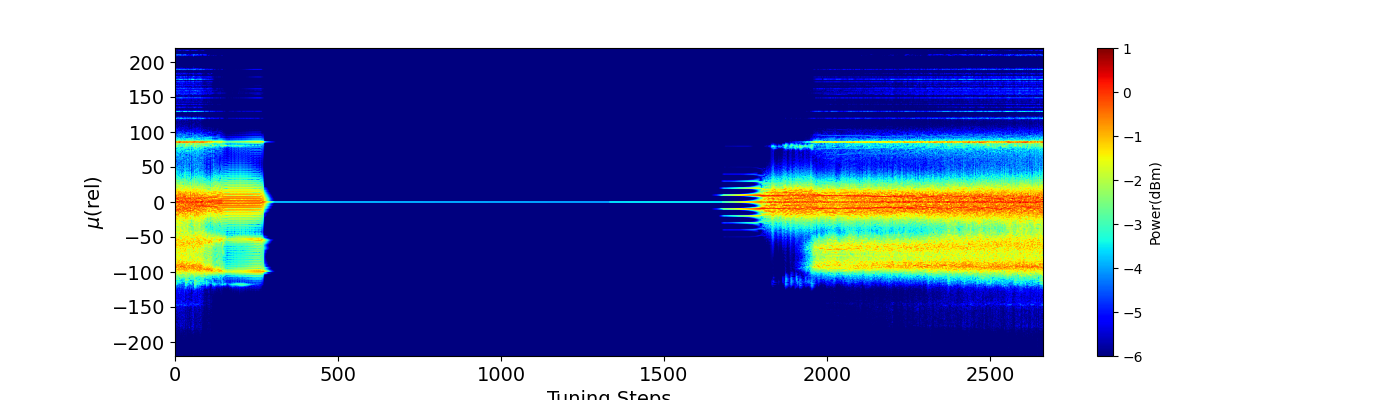
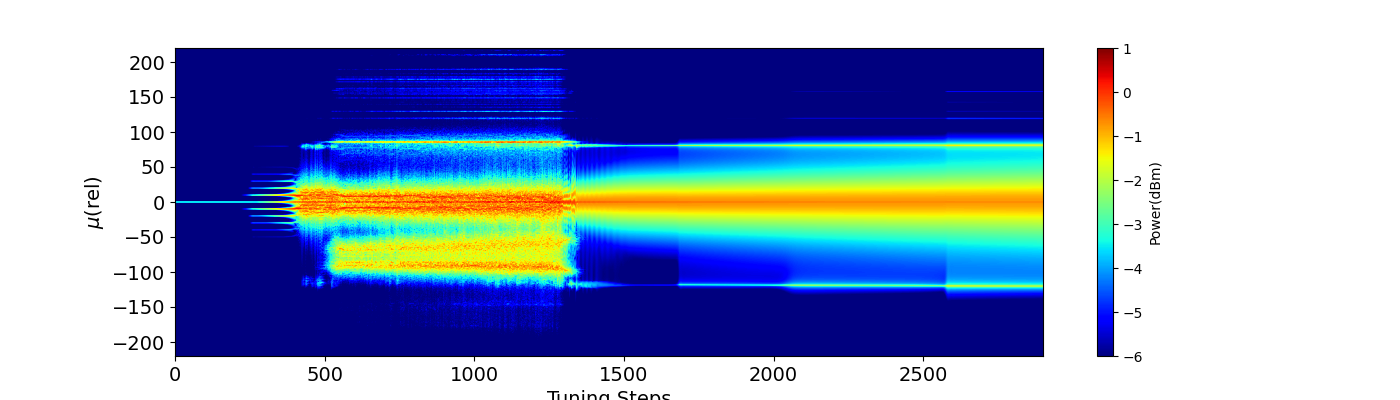
reward tuning

diff --git a/rl_mrr_all_ddqn.py b/rl_mrr_all_ddqn.py
@@ -208,6 +208,7 @@ class RL_MRR_Env():
         self.t_sim = torch.linspace(-t_ramp[0]/2 + del_omega_perc[0]*t_ramp[0], t_ramp[0]/2 + del_omega_perc[0]*t_ramp[0], Nt, device=DEVICE, dtype=torch.float64)
 
         self.pcav_ref = loadmat('ref_check.mat')['Pcomb'].T
+        self.primary_sidebands = loadmat('primary_sidebands.mat')['spec'][0]
         # self.pcav_ref = loadmat('Pcomb_rl_allv2.mat')['Pcomb'].T
 
     
@@ -354,7 +355,7 @@ class RL_MRR_Env():
             self.init_steps_ = int(1.5e5)
         # for idx in tqdm(range(int(1.5e5)), ncols=120):
         for _ in range(self.init_steps_):
-            mul_factor = np.random.choice([1, -1, 0], p=[1/3, 1/3, 1/3])
+            mul_factor = np.random.choice([1, -1, 0], p=[0.9,0.05,0.05])
             del_omega = self.current_del_omega + mul_factor*(1/self.max_steps)*(self.del_omega_end - self.del_omega_init)
 
             Fdrive_val = self.Fdrive(del_omega, self.t_sim[self.step_cntr], self.Ain, self.ind_pmp)
@@ -424,26 +425,38 @@ class RL_MRR_Env():
         desired_spectrum_dBm = 10*torch.log10(torch.abs(desired_spectrum)**2)+30
         desired_spectrum_dBm = torch.clamp(desired_spectrum_dBm, min=-60, max=10)
 
-        if torch.allclose(Ecav_dBm, desired_spectrum_dBm, atol=1):
-            achieved = True
-        else:
-            achieved = False
+        
         
 
         # Calculate the reward as the l2 error norm between the desired spectrum and the current spectrum
         # spectral_mse = -(torch.linalg.norm(Ecav-desired_spectrum, ord=2)/torch.linalg.norm(desired_spectrum, ord=2))
         # # rescale the spectral_mse to be between -1 and 0
         
-        pcav_mse = -(1000*(curr_pcav - self.pcav_ref[self.step_cntr-1])**2)
+        # pcav_mse = -(500*(curr_pcav - self.pcav_ref[self.step_cntr-1])**2)
 
         # if self.pcav_hist[0]-self.pcav_hist[-1]>0.1 and self.pcav_hist[-1] > 0: 
         #     self.alpha_ = 1-0.75
             # print('Flipped...')
 
-        reward = pcav_mse+1
+        if self.step_cntr < 45000:
+            reward = 2*np.mean(self.pcav_hist)#pcav_mse
+        elif self.step_cntr >= 50000 and self.step_cntr < int(0.45*self.max_steps):
+            reward = 2*np.mean(self.pcav_hist) + 2
+        else:
+            reward = 2*torch.corrcoef(torch.stack([desired_spectrum_dBm, Ecav_dBm]))[0,1].item() + 2
+            # reward = np.array(reward).reshape(1,)
+        
+        if torch.allclose(Ecav_dBm, desired_spectrum_dBm, atol=1):
+            achieved = True
+            reward += 5
+        else:
+            achieved = False
         
         # finf correlation between pcav_hist and recent samples of pcav_ref
-        corr = np.corrcoef(self.pcav_hist, self.pcav_ref[self.step_cntr-len(self.pcav_hist):self.step_cntr,0])[0,1]
+        # if self.step_cntr >= int(0.6*self.max_steps):
+        #     corr = np.corrcoef(self.pcav_hist, self.pcav_ref[self.step_cntr-len(self.pcav_hist):self.step_cntr,0])[0,1]
+        # else:
+        #     corr = torch.corrcoef(torch.stack([desired_spectrum_dBm, Ecav_dBm]))[0,1]
 
         # pop the first element of the pcav_hist if it exceeds 10001
         if len(self.pcav_hist) > 10000:
@@ -455,9 +468,17 @@ class RL_MRR_Env():
         else:
             done = False
         
-        if self.step_cntr >= int(0.6*self.max_steps):
-            if corr<0:#Ecav_dBm.max() < -40:
+        if self.step_cntr > 35000 and self.step_cntr < 45000:
+            if np.corrcoef(self.primary_sidebands, Ecav_dBm.cpu().numpy())[0,1]<0.5:
                 done = True
+                reward -= 10
+                print('Primary Sidebands not formed')
+        elif self.step_cntr >= int(0.5*self.max_steps):
+            if torch.corrcoef(torch.stack([desired_spectrum_dBm, Ecav_dBm]))[0,1]<0.1:
+                done = True
+                reward -= 5
+                # print('Pcav Corr:',corr)
+                print('Spectral Corr:', torch.corrcoef(torch.stack([desired_spectrum_dBm, Ecav_dBm]))[0,1])
         else:
             done = False
         
@@ -478,18 +499,20 @@ env = RL_MRR_Env()
 # del_omega.append(env.current_del_omega.cpu().numpy())
 # %%
 desired_spectrum = loadmat('desired_spec.mat')['Ecav'][0]
-desired_spectrum = torch.tensor(desired_spectrum, device=DEVICE, dtype=torch.complex128)
+desired_spectrum_dBm = 10*np.log10(np.abs(desired_spectrum)**2)+30
+desired_spectrum_tensor = torch.tensor(desired_spectrum, device=DEVICE, dtype=torch.complex128)
 # %%
 
 from dueling_dqn import Agent
-agent = Agent(n_actions=3, input_dims=[441], lr=1e-4, warm_up=170000, batch_size=128, gamma=0.99,\
-                eps_min=0.1, replace=1000, checkpoint_dir='./tmp/dueling_ddqn')
+agent = Agent(n_actions=3, input_dims=[441], lr=5e-4, warm_up=50000, batch_size=128, gamma=0.99,\
+                eps_min=0.05, replace=1000, checkpoint_dir='./tmp/dueling_ddqn')
+print(agent.q_eval)
 # %%
 # init wandb run
 wandb.init(project='maddpg_mrr', entity='viswacolab-technical-university-of-denmark')
 wandb.watch(agent.q_eval, log='gradients', log_freq=1000)
 # set the wandb run name
-wandb.run.name = 'ddqn'
+wandb.run.name = 'ddqn2'
 # %% MADDPG train loop
 logs={}
 n_games = 50000
@@ -498,6 +521,7 @@ n_games = 50000
 global_n_steps = 0
 scores = []
 best_score = -np.inf
+
 for i in range(n_games):
     score = 0
     done = False
@@ -506,7 +530,7 @@ for i in range(n_games):
     while not done:
         action = agent.choose_action(ecav/10)
         
-        next_state, reward, done, achieved, _, ecav_ = env.step(state, action, desired_spectrum)
+        next_state, reward, done, achieved, _, ecav_ = env.step(state, action, desired_spectrum_tensor)
         # log perf action
         logs['detuning'] = action
         if achieved==True:
@@ -521,24 +545,28 @@ for i in range(n_games):
         score += reward
         # r_hist.append(reward)
         n_steps += 1
-        global_n_steps += 1
+        
         if agent.memory.mem_cntr > 4*agent.batch_size:
             # print('Training...')
-            loss = agent.learn(global_n_steps)
+            loss, mean_q = agent.learn(global_n_steps)
             logs['critic_loss'] = loss
+            for idx,q in enumerate(mean_q):
+                logs['mean_q'+str(idx)] = q
 
         logs['epsilon'] = agent.epsilon
 
         if global_n_steps%100 == 0:
             wandb.log(logs)
 
+        global_n_steps += 1
     scores.append(score)
     avg_score = np.mean(scores[-100:])
     
-    print('episode ', i, 'score %.2f' % score, 'average score %.2f' % avg_score, 'n_steps', n_steps)
     if avg_score > best_score:
         best_score = avg_score
         agent.save_model()
+
+    print('episode ', i, 'score %.2f' % score, 'average score %.2f' % avg_score,'best score %.2f' % best_score, 'n_steps', n_steps)
 # %% save model
 # torch.save(agent.actor.state_dict(), './rl_results/actor_power_det_ctrl.pth')
 # save the r_hist into a csv file
@@ -567,7 +595,7 @@ agent_frozen = agent
 # # freeze the actor network
 # for param in agent_frozen.actor.parameters():
 #     param.requires_grad = False
-state, acav, ecav = env.reset()
+state, acav, ecav = env.reset(10000)
 r_hist = []
 action_hist = []
 acav_hist = []
@@ -577,13 +605,15 @@ pcav_hist = []
 pbar = tqdm(total=env.max_steps-env.init_steps_, ncols=120)
 idx = 0
 done = False
+ecav_hist = []
 while not done:
 # for idx in tqdm(range(env.init_steps_, env.max_steps), ncols=120):
     # perform random actions
     try:
+        # action = agent.choose_action(ecav, True)
         action = 1#np.random.choice([0, 1, 2], p=[1/3, 1/3, 1/3])
 
-        next_state, reward, done, achieved, acav_, ecav_ = env.step(state, action, desired_spectrum)
+        next_state, reward, done, achieved, acav_, ecav_ = env.step(state, action, desired_spectrum_tensor)
         state = next_state
         ecav = ecav_
         score += reward
@@ -591,6 +621,7 @@ while not done:
         pcav_hist.append(curr_pcav)
         r_hist.append(reward)
         action_hist.append(action)
+        ecav_hist.append(ecav_)
         if idx %100 == 0:        
             acav_hist.append(acav_)
         idx += 1
@@ -603,17 +634,27 @@ pbar.close()
 
 print('Test score %.2f' % score)
 # %%
+plt.figure(figsize=(14, 4))
+plt.imshow(np.array(ecav_hist).T, aspect='auto', cmap='jet',\
+            extent=[0, len(ecav_hist), -1e12*env.tR.item()/2, 1e12*env.tR.item()/2])
+plt.colorbar(label='Power(dBm)')
+plt.xlabel('Tuning Steps')
+plt.ylabel(r'$\mu$' +'(rel)', fontsize=14)
+# plt.xticks(fontsize=14)
+# plt.yticks(fontsize=14)
+plt.xlim(15000,40000)
+plt.show()
+# %%
 # find correlation between the obtained pcav and r_hist[:,-1]
 plt.figure(figsize=(10, 6))
 plt.plot(pcav_hist, label='Obtained')
 plt.plot(env.pcav_ref[10000:], label='Reference')
-# plt.xlim(135000,150000)
+# plt.xlim(25000,50000)
 plt.grid()
 plt.legend()
 plt.xlabel('Iteration')
 plt.ylabel('Pcav')
 plt.show()
-
 # %%
 # from fastdtw import fastdtw
 # from scipy.spatial.distance import euclidean
@@ -656,7 +697,7 @@ plt.show()
 
 # %%
 plt.figure(figsize=(14,4))
-spectrum = np.fft.fftshift(np.fft.fft(np.array(acav_hist))).T
+spectrum = np.fft.fftshift(np.fft.fft(np.array(acav_hist).T, axis=0), axes=0)
 spectrum_dBm = 10*np.log10(np.abs(spectrum)**2)+30
 spectrum_dBm = np.clip(spectrum_dBm, -60, 10)/10
 plt.imshow(spectrum_dBm, aspect='auto', cmap='jet'\
@@ -672,12 +713,12 @@ plt.show()
 plt.figure(figsize=(10, 6))
 plt.plot(r_hist)
 plt.xlabel('Iteration', fontsize=14)
-plt.ylabel('Reward '+ r'$(1-\alpha)(corr) + \alpha (-mse)$', fontsize=14)
+plt.ylabel('Reward ', fontsize=14)
 plt.grid()
 plt.savefig('./maddpg_results/ac_rewards_spec_all_ctrl.png')
 plt.show()
 # %%
-desired_spectrum_dBm = 10*torch.log10(torch.abs(desired_spectrum)**2)+30
+# desired_spectrum_dBm = 10*torch.log10(torch.abs(desired_spectrum)**2)+30
 plt.figure(figsize=(14,4))
 plt.vlines(np.arange(len(ecav)), -60*np.ones(len(ecav)), ecav, \
            label='Obtained Spectrum')

diff --git a/gru_ddqn.py b/gru_ddqn.py
@@ -46,24 +46,25 @@ class DuelingDQN(nn.Module):
         self.checkpoint_dir = chkpt_dir
         self.checkpoint_file = os.path.join(self.checkpoint_dir, name)
 
-        self.fc1 = nn.Linear(*input_dims, fc_dims)
-        # self.fc2 = nn.Linear(fc_dims, fc_dims)
-        self.fc_v = nn.Linear(fc_dims, fc_dims)
-        self.fc_a = nn.Linear(fc_dims, fc_dims)
+        self.fc1 = nn.Linear(*input_dims, fc_dims//2)
+        self.fc2 = nn.Linear(fc_dims, fc_dims)
         self.V = nn.Linear(fc_dims, 1)
         self.A = nn.Linear(fc_dims, n_actions)
+
+        self.seq_encoder = nn.GRU(input_size=1, hidden_size=fc_dims//2, batch_first=True)
+
         self.optimizer = optim.Adam(self.parameters(), lr=alpha)
         self.loss = nn.MSELoss()
         self.device = T.device('cuda' if T.cuda.is_available() else 'cpu')
         self.to(self.device)
     
-    def forward(self, state):
+    def forward(self, state, power_hist):
         x = F.relu(self.fc1(state))
-        # x = F.relu(self.fc2(x))
-        x_v = F.relu(self.fc_v(x))
-        x_a = F.relu(self.fc_a(x))
-        V = self.V(x_v)
-        A = self.A(x_a)
+        _, seq_h = self.seq_encoder(power_hist.view(*power_hist.shape, 1))
+        x = T.cat((x, seq_h[0]), dim=1)
+        x = F.relu(self.fc2(x))
+        V = self.V(x)
+        A = self.A(x)
 
         return V, A
     
@@ -94,18 +95,17 @@ class Agent:
         self.q_eval = DuelingDQN(lr, n_actions, input_dims, name='dueling_dqn_eval', chkpt_dir=checkpoint_dir)
         self.q_next = DuelingDQN(lr, n_actions, input_dims, name='dueling_dqn_next', chkpt_dir=checkpoint_dir)
 
-        self.q_next.load_state_dict(self.q_eval.state_dict())
         
     
-    def choose_action(self, state, deterministic=False):
+    def choose_action(self, state, pcav_hist, deterministic=False):
+        state = T.tensor(np.array([state]), dtype=T.float).to(self.q_eval.device)
+        pcav_hist = T.tensor(np.array([pcav_hist]), dtype=T.float).to(self.q_eval.device)
         if deterministic:
-            state = T.tensor(np.array([state]), dtype=T.float).to(self.q_eval.device)
-            _, advantage = self.q_eval.forward(state)
+            _, advantage = self.q_eval.forward(state,pcav_hist)
             action = T.argmax(advantage).item()
         else:
             if np.random.random() > self.epsilon:
-                state = T.tensor(np.array([state]), dtype=T.float).to(self.q_eval.device)
-                _, advantage = self.q_eval.forward(state)
+                _, advantage = self.q_eval.forward(state,pcav_hist)
                 action = T.argmax(advantage).item()
             else:
                 action = np.random.choice(self.n_actions)
@@ -116,11 +116,9 @@ class Agent:
         self.memory.store_transition(state, action, reward, state_, done)
     
     def decay_epsilon(self):
-        if self.epsilon > self.eps_min*10:
+        if self.epsilon > self.eps_min:
             self.epsilon -= self.eps_dec
-        elif self.epsilon < 10*self.eps_min and self.epsilon > self.eps_min:
-            self.epsilon -= self.eps_dec/10
-        elif self.epsilon <= self.eps_min:
+        else:
             self.epsilon = self.eps_min
     
     def replace_target_network(self, step):
@@ -136,7 +134,7 @@ class Agent:
         self.q_next.load_checkpoint()
     
     def learn(self, step):
-        if self.memory.mem_cntr < 4*self.batch_size:
+        if self.memory.mem_cntr < self.batch_size:
             return
         
         self.replace_target_network(step)
@@ -167,5 +165,5 @@ class Agent:
         nn.utils.clip_grad_norm_(self.q_eval.parameters(), 1)
         self.q_eval.optimizer.step()
         self.decay_epsilon()
-        return loss.item(), q_eval.mean(dim=0).cpu().detach().numpy()
+        return loss.item()
 
